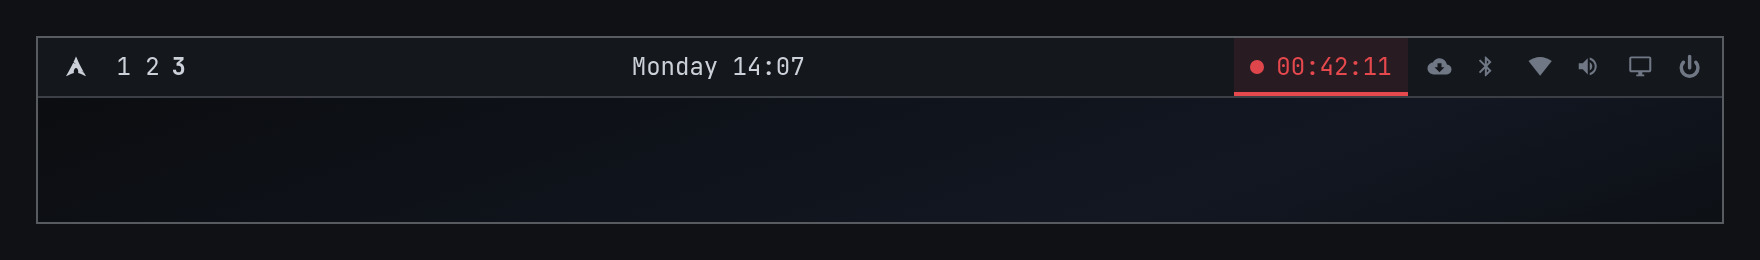
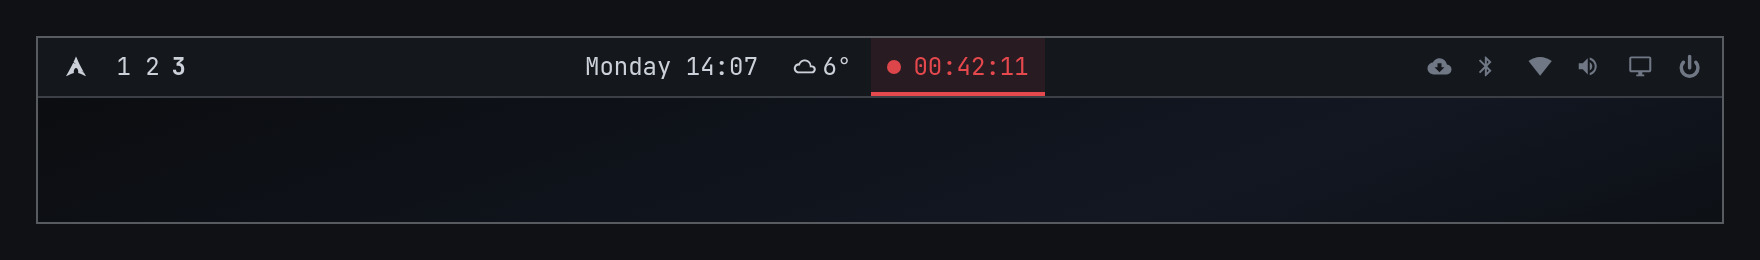
bar: the widget defaults to the centre, right of the weather
It was placed before omarchy.tray, in among the tray icons that are scanned
when something is looked for. The widget is the opposite: a state indicator
that has to be noticed mid-meeting without being looked for, and it is hidden
while idle (9.2), so a centre slot costs nothing when nothing is recording.

The anchor is a widget id rather than an index, because an index means a
different place on every bar. PluginRegistry.barTarget fails the enable
outright when the anchor is not on the bar, so step 4 retries with the section
alone and says where the widget actually landed.

A machine that already has the widget keeps its own position: step 4 still
never re-places an id that is already in bar.layout.

diff --git a/docs/design/munin-plugin-sketches.html b/docs/design/munin-plugin-sketches.html
@@ -176,7 +176,7 @@
   .panel-stage { padding: 0 0 22px; background: var(--sh-bg); }
   .panel {
     width: min(360px, 100%);
-    margin-left: auto; margin-right: 14px;
+    margin-left: auto; margin-right: auto;
     background: var(--sh-panel);
     border: 1px solid var(--sh-line-s);
     border-top: 0;
@@ -507,9 +507,10 @@
           </div>
           <div class="bar-sec">
             <span class="mod live">Monday 14:07</span>
+            <span class="mod live"> 6°</span>
+            <span class="mod rec"><span class="dot pulse"></span> <span class="num">00:42:11</span></span>
           </div>
           <div class="bar-sec">
-            <span class="mod rec"><span class="dot pulse"></span> <span class="num">00:42:11</span></span>
             <span class="mod"></span>
             <span class="mod"></span>
             <span class="mod"></span>
@@ -520,7 +521,7 @@
         </div>
         <div class="desk"></div>
       </div>
-      <figcaption class="cap">Recording state. Placement via <code>omarchy bar put local.munin --before omarchy.tray</code>, which writes it into <code>shell.json</code> and hot-reloads — no restart.</figcaption>
+      <figcaption class="cap">Recording state. Placement via <code>omarchy bar put local.munin --section center --after omarchy.weather</code>, which writes it into <code>shell.json</code> and hot-reloads — no restart.</figcaption>
     </figure>
   </section>
 
@@ -594,9 +595,12 @@
             <span class="mod live"></span>
             <span class="mod live">1 2 <b style="color:var(--sh-fg)">3</b></span>
           </div>
-          <div class="bar-sec"><span class="mod live">Monday 14:07</span></div>
           <div class="bar-sec">
+            <span class="mod live">Monday 14:07</span>
+            <span class="mod live"> 6°</span>
             <span class="mod rec" style="background:var(--sh-sel)"><span class="dot pulse"></span> <span class="num">00:42:11</span></span>
+          </div>
+          <div class="bar-sec">
             <span class="mod"></span>
             <span class="mod"></span>
             <span class="mod"></span>
@@ -1169,7 +1173,7 @@ device = <b>"cuda"</b>                         <i>always local, whatever the ASR
           <tr><td>1</td><td>Check <code>ffmpeg</code>, <code>pipewire</code>, Python 3.12+, <code>uv</code>; offer <code>omarchy pkg add</code> for anything missing</td><td>nothing yet</td></tr>
           <tr><td>2</td><td>Install the CLI, daemon and worker</td><td><code>~/.local/bin/munin*</code></td></tr>
           <tr><td>3</td><td>Install and validate the shell plugin</td><td><code>~/.config/omarchy/plugins/local.munin/</code></td></tr>
-          <tr><td>4</td><td>Put the widget in the bar</td><td><code>omarchy bar put local.munin --before omarchy.tray</code></td></tr>
+          <tr><td>4</td><td>Put the widget in the bar</td><td><code>omarchy bar put local.munin --section center --after omarchy.weather</code></td></tr>
           <tr><td>5</td><td>Bind the key, unbinding first if Omarchy already owns it</td><td><code>~/.config/hypr/bindings.lua</code> — backed up first</td></tr>
           <tr><td>6</td><td>Copy the systemd user unit, print the enable command rather than running it</td><td><code>~/.config/systemd/user/munin.service</code></td></tr>
           <tr><td>7</td><td>Create the data root and a default config</td><td><code>~/munin/</code>, <code>~/munin/config.toml</code></td></tr>

diff --git a/tests/install/test_install_sh.py b/tests/install/test_install_sh.py
@@ -62,7 +62,10 @@ def test_dry_run_changes_nothing(machine: FakeMachine) -> None:
     assert "would run:" in proc.stdout
     assert f"would run: python3 -m venv {machine.venv}" in proc.stdout
     assert "would run: cp -R" in proc.stdout
-    assert "would run: omarchy plugin enable local.munin --before omarchy.tray" in proc.stdout
+    assert (
+        "would run: omarchy plugin enable local.munin --section center --after omarchy.weather"
+        in proc.stdout
+    )
     assert f"would append to: {machine.bindings_link}" in proc.stdout
     assert "would run: systemctl --user daemon-reload" in proc.stdout
 
@@ -101,10 +104,13 @@ def test_install_performs_every_step(machine: FakeMachine) -> None:
     # 4: enabled and placed on the bar. The placement rides along with `enable`,
     # which already places a bar-widget: a later `bar put` would be too late.
     assert machine.called("omarchy-shell shell rescanPlugins")
-    assert machine.called("omarchy plugin enable local.munin --before omarchy.tray")
+    assert machine.called(
+        "omarchy plugin enable local.munin --section center --after omarchy.weather"
+    )
     layout = json.loads(machine.shell_json.read_text(encoding="utf-8"))["bar"]["layout"]
-    right = [w["id"] for w in layout["right"]]
-    assert right.index("local.munin") < right.index("omarchy.tray")
+    center = [w["id"] for w in layout["center"]]
+    assert center.index("local.munin") == center.index("omarchy.weather") + 1
+    assert "local.munin" not in [w["id"] for w in layout["right"]]
 
     # 5: keybind, backed up outside the dotfiles repo, appended through the
     # symlink, and said out loud
@@ -159,6 +165,27 @@ def test_unbind_is_emitted_when_omarchy_owns_the_key(machine: FakeMachine, tmp_p
     assert text.index('hl.unbind("SUPER + SHIFT + R")') < text.index(KEYBIND_LINE)
 
 
+def test_a_bar_without_the_anchor_still_gets_the_widget(machine: FakeMachine) -> None:
+    """A user who removed the weather widget must not end up with no widget at all.
+
+    PluginRegistry fails the enable outright when the anchor is not on the bar
+    ("could not find target widget"), so the installer retries with the section
+    alone rather than leaving the plugin enabled but unplaced.
+    """
+    data = json.loads(machine.shell_json.read_text(encoding="utf-8"))
+    data["bar"]["layout"]["center"] = [
+        w for w in data["bar"]["layout"]["center"] if w["id"] != "omarchy.weather"
+    ]
+    machine.shell_json.write_text(json.dumps(data), encoding="utf-8")
+
+    proc = machine.run()
+
+    assert "is not on the bar" in proc.stderr
+    assert machine.called("omarchy plugin enable local.munin --section center")
+    layout = json.loads(machine.shell_json.read_text(encoding="utf-8"))["bar"]["layout"]
+    assert "local.munin" in [w["id"] for w in layout["center"]]
+
+
 def test_install_is_idempotent(machine: FakeMachine) -> None:
     machine.run()
     config = machine.data_home / "config.toml"
@@ -179,10 +206,10 @@ def test_install_is_idempotent(machine: FakeMachine) -> None:
     assert not machine.called("munin setup")
     # Already on the bar: left where it is, and never asked for a second place.
     assert machine.called("omarchy plugin enable local.munin")
-    assert not machine.called("omarchy plugin enable local.munin --before")
+    assert not machine.called("omarchy plugin enable local.munin --section")
     assert "left where it is" in second.stdout
     layout = json.loads(machine.shell_json.read_text(encoding="utf-8"))["bar"]["layout"]
-    assert [w["id"] for w in layout["right"]].count("local.munin") == 1
+    assert [w["id"] for w in layout["center"]].count("local.munin") == 1
 
 
 def test_existing_foreign_binding_is_left_alone(machine: FakeMachine) -> None:
@@ -286,7 +313,10 @@ def test_an_unreachable_shell_does_not_strand_the_install(machine: FakeMachine) 
     proc = machine.run()
 
     assert "not reachable" in proc.stderr
-    assert "omarchy plugin enable local.munin --before omarchy.tray" in proc.stdout
+    assert (
+        "omarchy plugin enable local.munin --section center --after omarchy.weather"
+        in proc.stdout
+    )
 
     # Steps 5-7 still ran: they are filesystem work, not shell work.
     assert MARK_BEGIN in machine.bindings_target.read_text(encoding="utf-8")
@@ -331,7 +361,7 @@ def test_enable_may_not_change_the_bars_transparency(machine: FakeMachine) -> No
     assert machine.called("omarchy bar transparent false")
     after = json.loads(machine.shell_json.read_text(encoding="utf-8"))
     assert after["bar"]["transparent"] is False
-    assert [w["id"] for w in after["bar"]["layout"]["right"]][:2] == ["local.munin", "omarchy.tray"]
+    assert [w["id"] for w in after["bar"]["layout"]["center"]][-1] == "local.munin"
 
 
 def test_a_bar_that_was_already_transparent_is_left_alone(machine: FakeMachine) -> None:

diff --git a/tests/install/conftest.py b/tests/install/conftest.py
@@ -34,10 +34,12 @@ if [[ ${1:-} == plugin && ${2:-} == validate ]]; then
   exit 0
 fi
 # Enabling a plugin that declares a bar-widget also PLACES it, the way the real
-# PluginRegistry does: --before puts it in front of the named widget, and with
-# no placement it lands after the section's default anchor (omarchy.tray). A
-# shim that made `enable` a no-op would let install.sh assert an ordering the
-# real shell never produces.
+# PluginRegistry does: a placement is honoured (--after/--before an anchor,
+# or --section/--index), an anchor that is not on the bar *fails* the enable
+# (PluginRegistry.barTarget: "could not find target widget"), and with no
+# anchor the widget lands after the section's own default anchor --
+# omarchy.weather for center. A shim that made `enable` a no-op would let
+# install.sh assert an ordering the real shell never produces.
 if [[ ${1:-} == plugin && ${2:-} == enable ]]; then
   # `omarchy plugin enable` talks to a running shell over a socket and fails
   # when there is none -- an ssh or bare-TTY install. SHIM_NO_SHELL=1 is that.
@@ -48,20 +50,51 @@ if [[ ${1:-} == plugin && ${2:-} == enable ]]; then
     "$SHIM_SHELL_JSON" >/dev/null; then
     exit 0
   fi
+  section=""
+  index=""
+  anchor=""
+  offset=0
+  shift 3 || true
+  while (( $# )); do
+    case "${1:-}" in
+      --section) section="${2:-}"; shift 2 ;;
+      --index) index="${2:-}"; shift 2 ;;
+      --before) anchor="${2:-}"; offset=0; shift 2 ;;
+      --after) anchor="${2:-}"; offset=1; shift 2 ;;
+      *) shift ;;
+    esac
+  done
+  [[ -n $section ]] || section="center"   # the manifest's defaultSection
   tmp="$(mktemp)"
-  if [[ ${4:-} == --before ]]; then
-    jq --arg id "$pid" --arg anchor "${5:-}" '
-      .bar.layout.right |= (
-        (map(.id == $anchor) | index(true)) as $i
-        | if $i == null then . + [{id: $id}]
-          else .[0:$i] + [{id: $id}] + .[$i:] end
+  if [[ -n $anchor ]]; then
+    jq -e --arg anchor "$anchor" \
+      '[.bar.layout[]?[]? | select(.id == $anchor)] | length > 0' \
+      "$SHIM_SHELL_JSON" >/dev/null || {
+        echo "could not find target widget $anchor" >&2
+        rm -f "$tmp"
+        exit 1
+      }
+    jq --arg id "$pid" --arg anchor "$anchor" --argjson off "$offset" '
+      .bar.layout |= with_entries(
+        .value |= (
+          (map(.id == $anchor) | index(true)) as $i
+          | if $i == null then . else .[0:$i + $off] + [{id: $id}] + .[$i + $off:] end
+        )
+      )' "$SHIM_SHELL_JSON" >"$tmp"
+  elif [[ -n $index ]]; then
+    jq --arg id "$pid" --arg section "$section" --argjson i "$index" '
+      .bar.layout[$section] |= (
+        (. // []) as $w | $w[0:$i] + [{id: $id}] + $w[$i:]
       )' "$SHIM_SHELL_JSON" >"$tmp"
   else
-    jq --arg id "$pid" --arg anchor "omarchy.tray" '
-      .bar.layout.right |= (
-        (map(.id == $anchor) | index(true)) as $i
-        | if $i == null then . + [{id: $id}]
-          else .[0:$i + 1] + [{id: $id}] + .[$i + 1:] end
+    # No anchor given: after the section's default anchor, or at the end.
+    jq --arg id "$pid" --arg section "$section" --arg anchor \
+      "$(case "$section" in left) echo omarchy.workspaces ;; center) echo omarchy.weather ;; *) echo omarchy.tray ;; esac)" '
+      .bar.layout[$section] |= (
+        (. // []) as $w
+        | ($w | map(.id == $anchor) | index(true)) as $i
+        | if $i == null then $w + [{id: $id}]
+          else $w[0:$i + 1] + [{id: $id}] + $w[$i + 1:] end
       )' "$SHIM_SHELL_JSON" >"$tmp"
   fi
   mv "$tmp" "$SHIM_SHELL_JSON"
@@ -218,7 +251,7 @@ SHELL_JSON_FIXTURE = {
         "position": "top",
         "layout": {
             "left": [{"id": "omarchy.menu"}],
-            "center": [{"id": "omarchy.clock"}],
+            "center": [{"id": "omarchy.clock"}, {"id": "omarchy.weather"}],
             "right": [{"id": "omarchy.tray"}, {"id": "omarchy.power"}],
         },
     },

diff --git a/src/munin/doctor.py b/src/munin/doctor.py
@@ -415,7 +415,7 @@ def check_plugin_on_bar(env: DoctorEnv) -> CheckResult:
     return CheckResult(
         "plugin on bar",
         "fail",
-        f"{PLUGIN_ID} is not in bar.layout (omarchy bar put {PLUGIN_ID} --before omarchy.tray)",
+        f"{PLUGIN_ID} is not in bar.layout (omarchy bar put {PLUGIN_ID} --section center --after omarchy.weather)",
     )
 
 

diff --git a/docs/superpowers/specs/2026-09-14-poc-contracts.md b/docs/superpowers/specs/2026-09-14-poc-contracts.md
@@ -894,7 +894,7 @@ WantedBy=graphical-session.target
 | 1 | Check `python3 >= 3.12`, `ffmpeg`, `pw-record`, `pw-dump`, `hyprctl`, `omarchy`. Print what is missing and the `omarchy pkg add` line; never run `sudo` (non-interactive `sudo` fails on this machine). | nothing |
 | 2 | `python3 -m venv ~/.local/share/munin/venv` and `venv/bin/pip install <repo>` | `~/.local/share/munin/venv` |
 | 3 | Symlink `~/.local/bin/{munin,munin-rec,munin-work}` → the venv's scripts | `~/.local/bin` |
-| 4 | Copy `plugin/local.munin/` → `~/.config/omarchy/plugins/local.munin/`, then `omarchy plugin validate` it, `omarchy-shell shell rescanPlugins`, `omarchy plugin enable local.munin --before omarchy.tray`. The placement rides along with `enable`, which already places a bar-widget (at the section's default anchor, *after* `omarchy.tray`); a later `bar put` is too late. This step needs a running shell, so a failure here **warns and prints the command to run later** rather than aborting steps 5-7. | `~/.config/omarchy/plugins/` |
+| 4 | Copy `plugin/local.munin/` → `~/.config/omarchy/plugins/local.munin/`, then `omarchy plugin validate` it, `omarchy-shell shell rescanPlugins`, `omarchy plugin enable local.munin --section center --after omarchy.weather` (falling back to `--section center` alone, because an anchor that is not on the bar fails the enable outright). The placement rides along with `enable`, which already places a bar-widget (at the default anchor of the section the manifest declares); a later `bar put` is too late. A widget already in `bar.layout` is never re-placed, so a user who moves it keeps the move across reinstalls. This step needs a running shell, so a failure here **warns and prints the command to run later** rather than aborting steps 5-7. | `~/.config/omarchy/plugins/` |
 | 5 | Append the keybind to `~/.config/hypr/bindings.lua` | see below |
 | 6 | Copy `systemd/munin.service` → `~/.config/systemd/user/`, **print** the `systemctl --user enable --now munin.service` line rather than running it (enablement is never committed) | `~/.config/systemd/user/` |
 | 7 | `munin setup --non-interactive`: create `$MUNIN_HOME` and a default `config.toml` | `~/munin/` |

diff --git a/docs/superpowers/specs/2026-09-14-meeting-recorder-design.md b/docs/superpowers/specs/2026-09-14-meeting-recorder-design.md
@@ -635,7 +635,12 @@ Three findings shape this:
 a recording, so the plugin detects, prompts and renders while `munin-rec`
 captures.
 
-Placement: `omarchy bar put local.munin --before omarchy.tray`, which writes
+Placement: the centre section, immediately right of the weather
+(`omarchy bar put local.munin --section center --after omarchy.weather`), because
+the widget is a state indicator that has to be noticed mid-meeting rather than
+looked for, and it is hidden while idle (9.2) so the slot costs nothing. An
+anchor id rather than an index, since an index means a different place on every
+bar. This writes
 `shell.json` and hot-reloads. Note that `shell.json` is deployed as a copy, never
 a symlink, because `omarchy-shell-config` writes with an atomic rename.
 
@@ -937,7 +942,7 @@ git clone <repo> ~/dev/munin && ~/dev/munin/install.sh
 | 1 | Check `ffmpeg`, `pipewire`, Python 3.12+, `uv`; offer `omarchy pkg add` for anything missing | nothing yet |
 | 2 | Install CLI, daemon and worker | `~/.local/bin/munin*` |
 | 3 | Install and validate the shell plugin | `~/.config/omarchy/plugins/local.munin/` |
-| 4 | Put the widget in the bar | `omarchy bar put local.munin --before omarchy.tray` |
+| 4 | Put the widget in the bar | `omarchy bar put local.munin --section center --after omarchy.weather` |
 | 5 | Bind the key, unbinding first if Omarchy owns it | `~/.config/hypr/bindings.lua`, backed up first |
 | 6 | Copy the systemd user unit, print the enable command rather than running it | `~/.config/systemd/user/munin.service` |
 | 7 | Create the data root and a default config | `~/munin/`, `~/munin/config.toml` |

diff --git a/plugin/local.munin/README.md b/plugin/local.munin/README.md
@@ -147,7 +147,7 @@ cp -r plugin/local.munin ~/.config/omarchy/plugins/local.munin
 omarchy plugin validate ~/.config/omarchy/plugins/local.munin
 omarchy-shell shell rescanPlugins          # make the live shell see it
 omarchy plugin enable local.munin          # enabling is a live IPC call
-omarchy bar put local.munin --before omarchy.tray
+omarchy bar put local.munin --section center --after omarchy.weather
 ```
 
 Copy, never symlink: `omarchy plugin validate` rejects a plugin folder that
